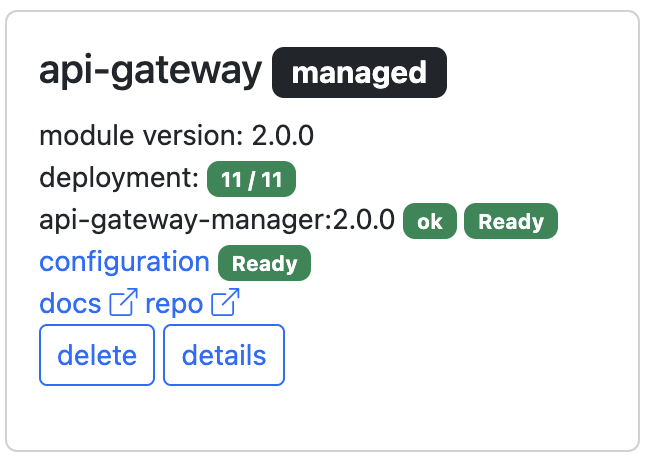
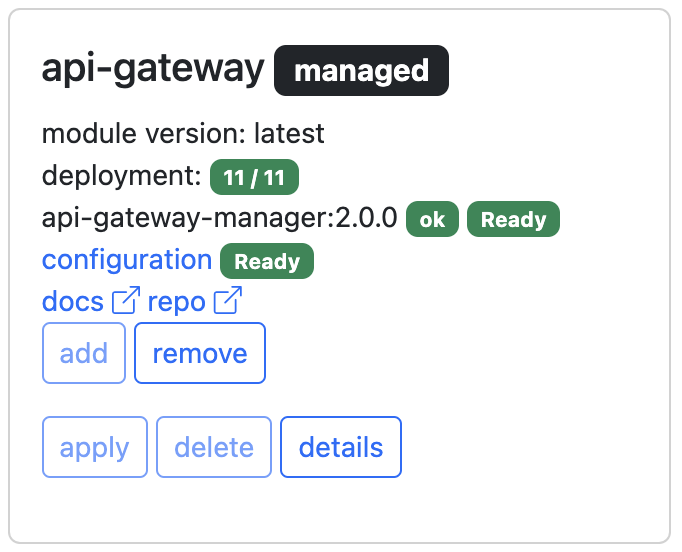
Update readme

Changed region(s): [[0.0617, 0.0609, 0.8642, 0.8826], [0.0, 0.0, 0.9877, 1.0]]

diff --git a/README.md b/README.md
@@ -27,16 +27,15 @@ If you don't have any cluster at hand you can use this playground:
 
 ## Usage 
 
-<img src="serverless-card.png" height=200 />
+<img src="api-gateway-card.png" width=200 />
 
 - **add** - adds module to Kyma custom resource (default Kyma CR in kyma-system namespace) and makes it a managed module. It means the module upgrades will be performed automatically when new version is available in the release channel. Available only for manageable modules in the managed Kyma cluster (SKR)
+- **remove** - removes module from Kyma custom resource (default Kyma CR in kyma-system namespace). Available only for managed modules in the managed Kyma cluster (SKR)
 - **apply** - applies the module manager and default configuration directly in your cluster. It means that the module is not managed and the new versions have to be applied manually. When module is managed the option is not available - you need to delete module first (remove it from Kyma CR)
-- **delete** - for managed modules it removes entry in the Kyma CR that initiates module deletion from Kyma Control Plane. For manually installed modules the action deletes all manage resources including module configuration, and when all of them are gone, deletes module manager deployment
+- **delete** - the action checks if there are any managed resources controlled by the module and asks for permission to delete them first (including module configuration resource), and when all of them are gone, deletes module manager deployment
 - **details** - show resources included in the module manager deployment Yaml
 
 ## Module view
-
-<img src="api-gateway-card.png" height=200 />
 
 The module view contains following information:
 - module name with optional badges (**managed** for modules managed by Kyma Control Plane, **community** modules that come from the community) 
@@ -79,7 +78,7 @@ Fields description:
 - **name** - name of your module (keep it short)
 - **deploymentYaml** - URL of your module deployment YAML (usually the artifact of your module release)
 - **crYaml** - URL of your module default configuration (custom resource)
-- **documentatio** - documentation URL
+- **documentation** - documentation URL
 - **repository** - main source code repository
 - **managedResources** - list of api server resources (paths) that are managed by your module (including the configuration resource)
 - **versions** - list of module versions that can be included in release channels. In version entry you can override some module properties (usually deploymentYaml and crYaml)
